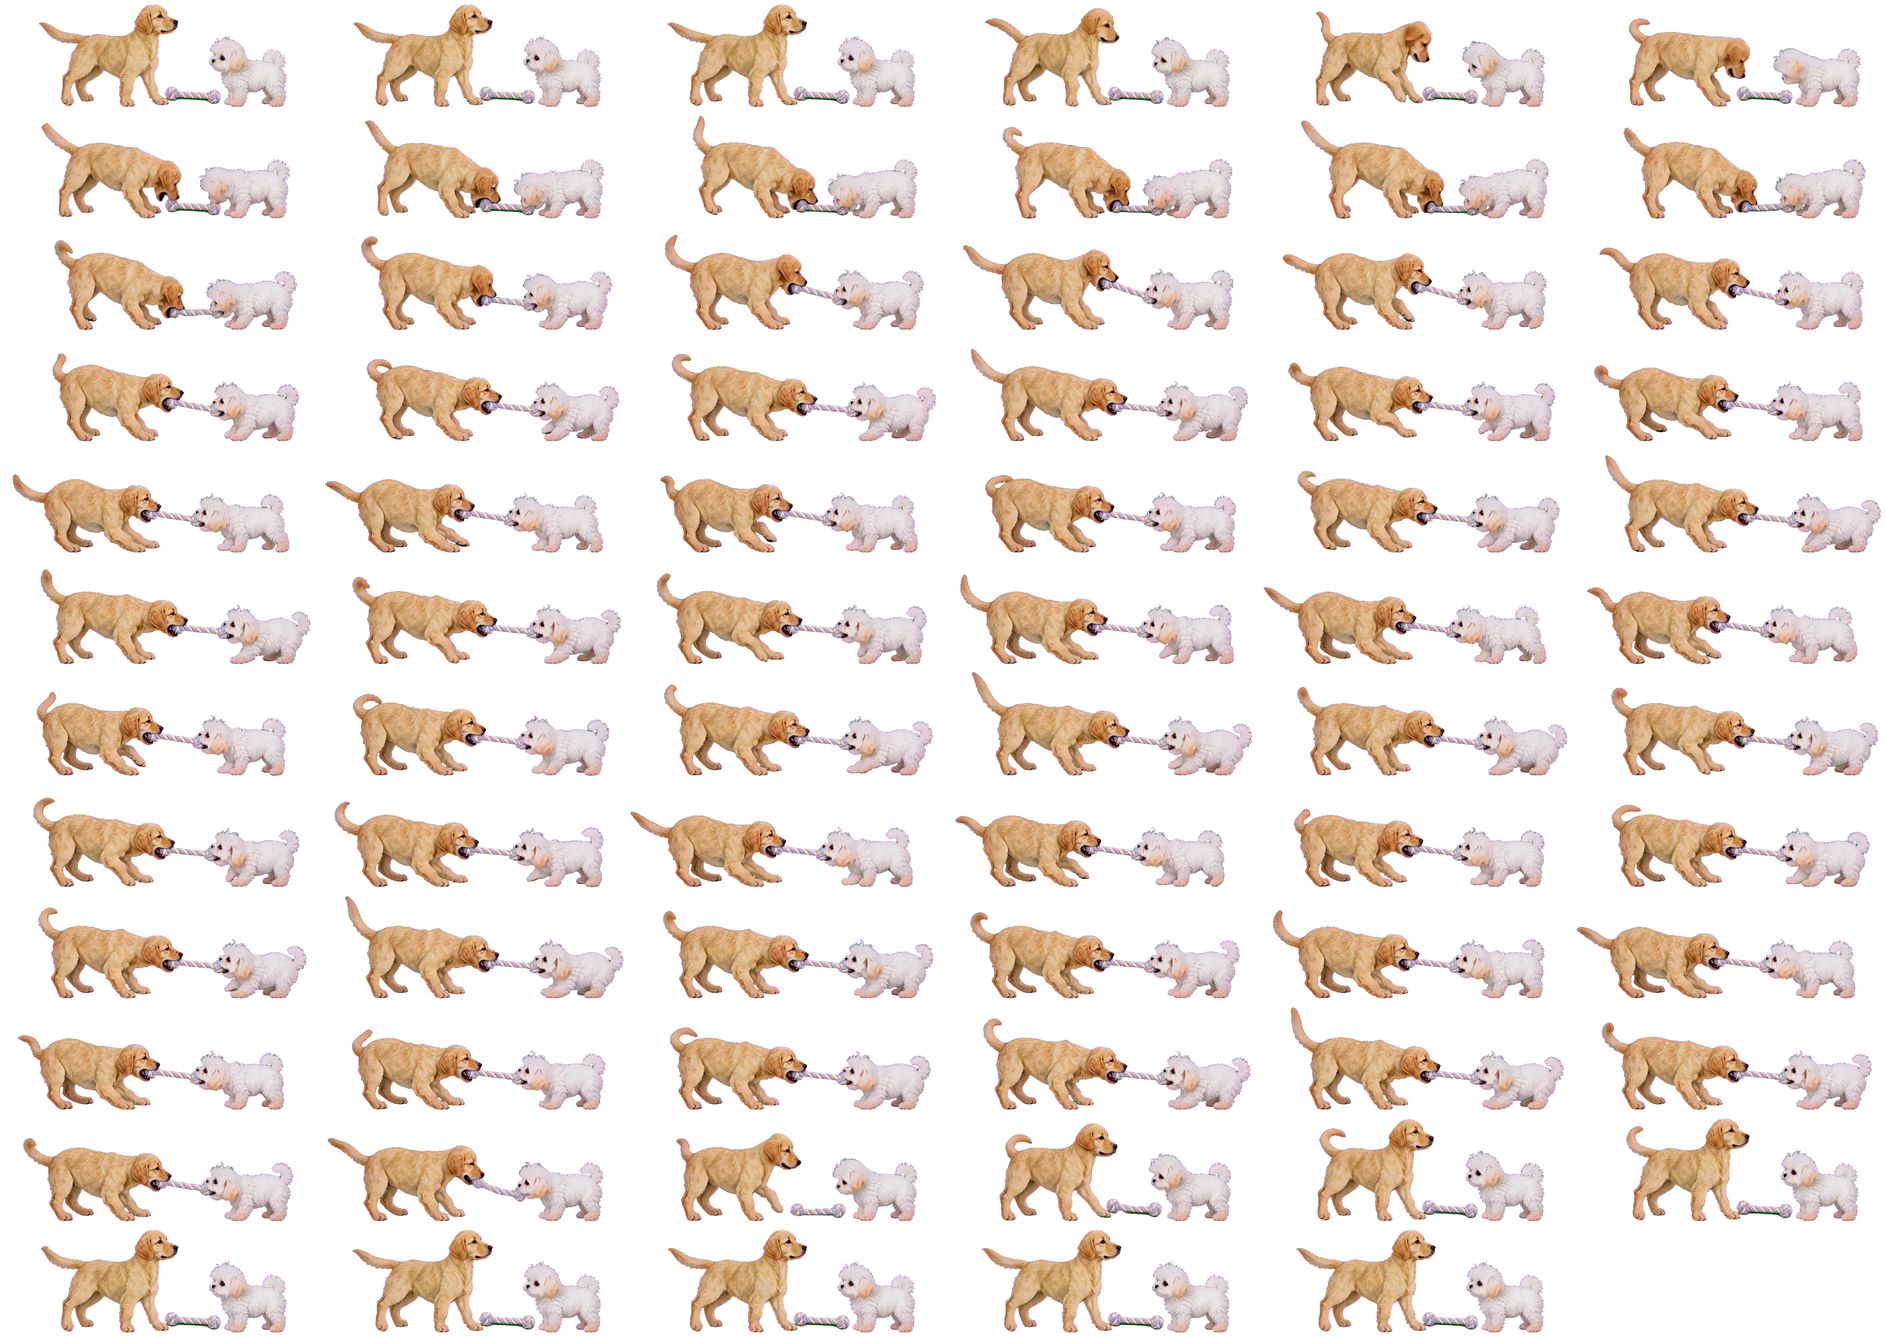
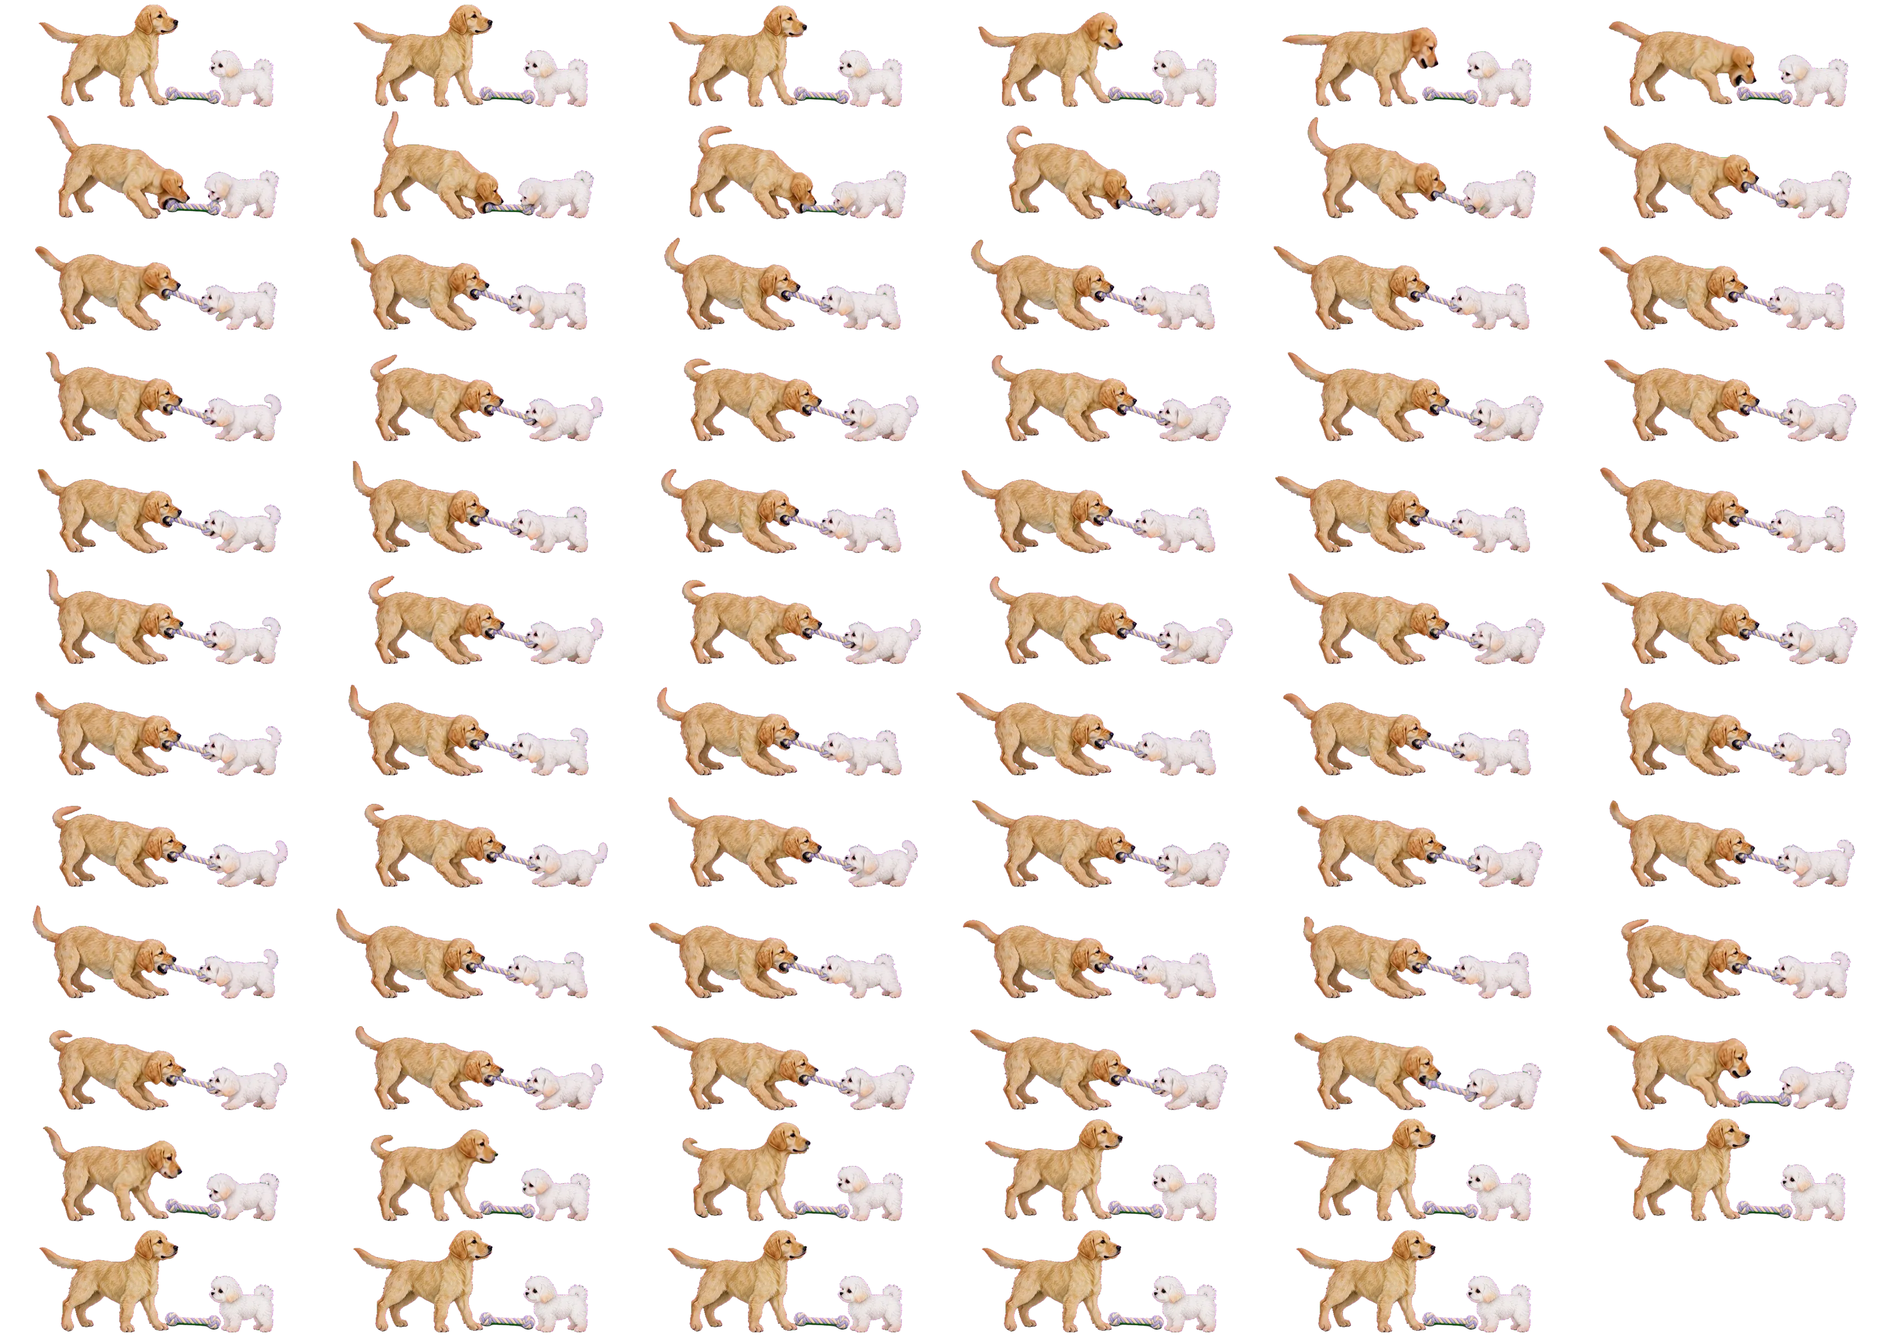
The Maltese is the owner's Holopix painting now, bare and in its petal outfit: each look walks, sits and gallops in its own painted clips, drawn at 0.8 of the old size to keep it about half the puppy; it wears its petal look while the puppy is dressed, walks at the puppy's pace with its painted stri

diff --git a/mobile/src/components/garden/critters/GardenCritters.tsx b/mobile/src/components/garden/critters/GardenCritters.tsx
@@ -29,6 +29,25 @@ type Frames = { columns: number; count: number; ground: number; loop: number; fp
     // A run in bigger cells than the walk's (a gallop stretches past them): their size, and where
     // their top left lies in the walk's cell, in walk-cell pixels.
     cell?: { w: number; h: number; x: number; y: number } }; trail?: number };
+// The Maltese (Xiaobai), from the owner's Holopix painting of it in its petal outfit (2026-11-05;
+// ~/dev/petalpal-motion/maltese/v2): that painting on green is the dressed look, the same painting
+// with every piece taken off the bare one. Each look: an oil-motion walk (a four-beat walk, one
+// stride), a walk-to-sit (20 frames) and a gallop (two strides, painted from a mid-stride key
+// frame), all cut with the walk's scale (crop 190,30,920,690 into 293 × 220 cells; the gallop is
+// longer, so it is cut wider, 40,0,1240,744 into 395 × 237 cells, and drawn offset onto them, its
+// landing paws on the walk's ground). `loop` is the ground the planted paws cover (measured by
+// video-frames.py) at MALTESE_SIZE. It wears its look when the puppy has an outfit on.
+export type MalteseLook = 'bare' | 'petal';
+const MALTESE_LOOKS: Record<MalteseLook, Frames & { source: number }> = {
+  bare: { source: require('@/assets/garden/critters/maltese-walk.webp'), columns: 8, count: 48, ground: 216, loop: 47.9,
+    rest: { source: require('@/assets/garden/critters/maltese-sit.webp'), count: 20, rise: 1 },
+    run: { source: require('@/assets/garden/critters/maltese-run.webp'), columns: 8, count: 60, loop: 66.3,
+      cell: { w: 395.4, h: 237.2, x: -47.83, y: -16.1 } } },
+  petal: { source: require('@/assets/garden/critters/maltese-petal-walk.webp'), columns: 8, count: 42, ground: 216, loop: 34.6,
+    rest: { source: require('@/assets/garden/critters/maltese-petal-sit.webp'), count: 20, rise: 1 },
+    run: { source: require('@/assets/garden/critters/maltese-petal-run.webp'), columns: 8, count: 59, loop: 64.4,
+      cell: { w: 395.4, h: 237.2, x: -47.83, y: -22.2 } } },
+};
 const ART: Record<CritterId, { source: number; frames?: Frames; w: number; h: number }> = {
   butterfly: { source: require('@/assets/garden/critters/butterfly.webp'), w: 448, h: 367 },
   // The bluebird flies in painted frames: a few wingbeats of a generated flying clip.
@@ -43,17 +62,8 @@ const ART: Record<CritterId, { source: number; frames?: Frames; w: number; h: nu
   // The puppy walks, gallops after the bluebird and sits down where it caught up in its outfit's
   // paintings (puppyLooks.ts; bare when it has nothing on), all sharing one crop, ground and scale.
   puppy: { source: PUPPY_LOOKS.bare.source, w: 418, h: 300, frames: PUPPY_LOOKS.bare },
-  // The Maltese, the puppy's tiny friend: an oil-motion walk (a four-beat walk, one stride cycle of
-  // 43 frames, 45 units of ground) and a walk-to-sit (20 frames), cut with one crop (190,30,920,690)
-  // so they lie on the same cells. Only frames where its legs are moving are kept: a still stretch
-  // in a loop made it slide.
-  maltese: { source: require('@/assets/garden/critters/maltese-walk.webp'), w: 293, h: 220,
-    frames: { columns: 8, count: 43, ground: 216, loop: 45, rest: { source: require('@/assets/garden/critters/maltese-sit.webp'), count: 20, rise: 1 },
-      // Its run: a gallop (painted from a mid-stride key frame; 59 frames, 77 units), chasing the
-      // puppy or dashing off in a game. Stretched out it is longer than the walk's cells, so it is cut
-      // wider (crop 100,10,1120,710 into 374 × 237 cells) and drawn offset onto them.
-      run: { source: require('@/assets/garden/critters/maltese-run.webp'), columns: 8, count: 59, loop: 77,
-        cell: { w: 374 * 0.9986, h: 237 * 0.9986, x: -30, y: -6.67 } } } },
+  // The Maltese, the puppy's tiny friend (bare, or in its own look: MALTESE_LOOKS).
+  maltese: { source: MALTESE_LOOKS.bare.source, w: 293, h: 220, frames: MALTESE_LOOKS.bare },
   // The Silktail Fox spirit, generated from the Garden spirits design sheet: it gallops (several
   // strides of a running clip) shedding petals, then slows, stops and sits down to rest (a clip
   // from that same running pose), and gets up again (back to its standing frame, 24).
@@ -358,15 +368,42 @@ export default memo(function GardenCritters({ clock, active, pets }: { clock: Sh
   </>;
 });
 
-export function Critter({ visit, clock, zoom = 1, look = 'bare' }: { visit: Visit; clock: SharedValue<number>; zoom?: number; look?: PuppyLook }) {
+export function Critter({ visit, clock, zoom = 1, look = 'bare', malteseLook }: { visit: Visit; clock: SharedValue<number>; zoom?: number; look?: PuppyLook; malteseLook?: MalteseLook }) {
   const art = ART[visit.id];
-  const image = useImage(visit.id === 'puppy' ? null : art.source);
+  const image = useImage(visit.id === 'puppy' || visit.id === 'maltese' ? null : art.source);
   if (visit.id === 'puppy') return <Group transform={zoom === 1 ? undefined : [{ scale: zoom }]}><Puppy visit={visit} clock={clock} look={look} /></Group>;
+  // The Maltese matches its friend: in its own look while the puppy has an outfit on.
+  if (visit.id === 'maltese') return <Group transform={zoom === 1 ? undefined : [{ scale: zoom }]}>
+    <Maltese visit={visit} clock={clock} look={malteseLook ?? (look === 'bare' ? 'bare' : 'petal')} /></Group>;
   if (!image) return null;
   return <Group transform={zoom === 1 ? undefined : [{ scale: zoom }]}>
     {art.frames && CRITTERS[visit.id].kind === 'walker' ? <FrameWalker visit={visit} clock={clock} sheet={image} frames={art.frames} w={art.w} h={art.h} />
       : <Flyer visit={visit} clock={clock} image={image} />}
   </Group>;
+}
+
+// The Maltese in its look. Both looks stay drawn (the one not worn invisible), so their sheets are
+// in and a change shows at once; never mid-run: a new look waits until its run has ended.
+function Maltese({ visit, clock, look }: { visit: Visit; clock: SharedValue<number>; look: MalteseLook }) {
+  const [shown, setShown] = useState(look);
+  const visitRef = useRef(visit); visitRef.current = visit;
+  useEffect(() => {
+    if (look === shown) return;
+    const running = () => { const v = visitRef.current; return !!(v.chase || v.running) && clock.value < v.start + v.duration; };
+    let timer = setTimeout(function wear() {
+      if (running()) { timer = setTimeout(wear, 300); return; }
+      setShown(look);
+    }, 0);
+    return () => clearTimeout(timer);
+  }, [look, shown, clock]);
+  const hidden = useDerivedValue(() => 0, []);
+  return <>{(['bare', 'petal'] as const).map(name => <MalteseLookWalker key={name} visit={visit} clock={clock} look={name} fade={name === shown ? undefined : hidden} />)}</>;
+}
+
+function MalteseLookWalker({ visit, clock, look, fade }: { visit: Visit; clock: SharedValue<number>; look: MalteseLook; fade?: DerivedValue<number> }) {
+  const sheet = useImage(MALTESE_LOOKS[look].source);
+  if (!sheet) return null;
+  return <FrameWalker visit={visit} clock={clock} sheet={sheet} frames={MALTESE_LOOKS[look]} w={ART.maltese.w} h={ART.maltese.h} fade={fade} />;
 }
 
 // The puppy in its outfit. A new outfit simply goes on: the old look fades off the new one in a

diff --git a/mobile/src/app/critters-test.tsx b/mobile/src/app/critters-test.tsx
@@ -4,7 +4,7 @@ import * as SplashScreen from 'expo-splash-screen';
 import { useEffect, useMemo, useState } from 'react';
 import { Pressable, ScrollView, StyleSheet, Text, View } from 'react-native';
 import { useFrameCallback, useSharedValue } from 'react-native-reanimated';
-import { Critter, PairSceneClip } from '@/components/garden/critters/GardenCritters';
+import { Critter, PairSceneClip, type MalteseLook } from '@/components/garden/critters/GardenCritters';
 import { PUPPY_LOOKS, type PuppyLook } from '@/components/garden/critters/puppyLooks';
 import { Otter } from '@/components/garden/spirits/MemoryOtter';
 import { OTTER_SPEED, swimEnd, type Swim } from '@/components/garden/spirits/otterSwims';
@@ -24,6 +24,9 @@ export default function CrittersTestScreen() {
   const [slow, setSlow] = useState(false);
   // The puppy's outfit: switching it mid-walk shows how one look turns into another.
   const [look, setLook] = useState<PuppyLook>('bare');
+  // The Maltese's look, and the Maltese walking beside the puppy at one zoom (their sizes side by side).
+  const [malteseLook, setMalteseLook] = useState<MalteseLook>('bare');
+  const [together, setTogether] = useState(false);
   // The puppy's moves: its walk, its gallop (a chase), or sitting a while first, then getting up.
   // (eat / pat: the puppy's painted actions, petal cape only.)
   const [move, setMove] = useState<'walk' | 'run' | 'sit' | 'eat' | 'pat'>('walk');
@@ -40,7 +43,7 @@ export default function CrittersTestScreen() {
   const [start, setStart] = useState(0);
   useEffect(() => { const timer = setTimeout(() => setStart(seconds.value), 100); return () => clearTimeout(timer); }, [id, round, seconds]);
   const visit = useMemo<Visit>(() => {
-    const ZOOM = zoomFor(id), margin = CRITTERS[id].size * 0.45;
+    const ZOOM = together && id === 'maltese' ? zoomFor('puppy') : zoomFor(id), margin = CRITTERS[id].size * 0.45;
     const y = CRITTERS[id].kind === 'walker' ? HEIGHT / ZOOM * 0.78 : HEIGHT / ZOOM * 0.5;
     const path = [{ x: margin, y }, { x: WIDTH / ZOOM - margin, y: y - 6 }, { x: margin + 8, y: y + 4 }];
     const spec = CRITTERS[id], puppyMove = id === 'puppy' || id === 'maltese' ? move : 'walk';
@@ -52,7 +55,15 @@ export default function CrittersTestScreen() {
     return { key: round, id, path, start, duration: lead + travelSeconds(length / speed, rhythm), speed, rhythm,
       lead, fadeIn: id !== 'silktail' && !sitting, walked: 0, chase: running && id === 'puppy', running: running && id === 'maltese', sits: sitting,
       ...(acting ? { held: true, action: { kind: puppyMove as 'eat' | 'pat', start: start + 2 } } : {}) };
-  }, [id, round, start, move]);
+  }, [id, round, start, move, together]);
+  // The puppy beside it: the same path a little further back, at its own pace.
+  const mate = useMemo<Visit | null>(() => {
+    if (!together || id !== 'maltese') return null;
+    const running = move === 'run', speed = running ? RUN_SPEED : CRITTERS.puppy.speed;
+    const path = visit.path.map(p => ({ x: p.x, y: p.y - 16 }));
+    return { ...visit, key: visit.key + 0.5, id: 'puppy', path, speed, rhythm: running ? { cycle: 0, moving: 1 } : RHYTHMS.puppy,
+      chase: running, running: false };
+  }, [together, id, move, visit]);
   const scene = useMemo<Scene | null>(() => (pair ? { key: round, kind: pair, start: start + 0.4, end: start + 0.4 + SCENE_SPECS[pair].seconds, x: 70, y: HEIGHT / 1.5 * 0.78, dir: 1 } : null), [pair, round, start]);
   useEffect(() => {
     if (!scene) return;
@@ -91,7 +102,10 @@ export default function CrittersTestScreen() {
       <Rect x={0} y={0} width={WIDTH} height={HEIGHT} color="#5C7F45" />
       <Rect x={0} y={HEIGHT * 0.62} width={WIDTH} height={HEIGHT * 0.3} color="#B9AA8C" />
       {scene ? <Group transform={[{ scale: 1.5 }]}><PairSceneClip key={scene.key} scene={scene} clock={seconds} /></Group>
-        : <Critter key={`${id}-${move}`} visit={visit} clock={seconds} zoom={zoomFor(id)} look={look} />}
+        : mate ? <>
+          <Critter key={`mate-${move}`} visit={mate} clock={seconds} zoom={zoomFor('puppy')} look={malteseLook === 'petal' ? 'cape2' : 'bare'} />
+          <Critter key={`${id}-${move}-t`} visit={visit} clock={seconds} zoom={zoomFor('puppy')} malteseLook={malteseLook} /></>
+        : <Critter key={`${id}-${move}`} visit={visit} clock={seconds} zoom={zoomFor(id)} look={look} malteseLook={malteseLook} />}
     </Canvas>}
     <Text testID="critter-debug" style={styles.label}>{debug}</Text>
     <View style={styles.row}>{PREVIEW_IDS.map(item => <Pressable key={item} onPress={() => { setOtter(false); setPair(null); setId(item); }}
@@ -101,6 +115,9 @@ export default function CrittersTestScreen() {
       style={[styles.button, pair === item && styles.selected]}><Text style={styles.label}>{item === 'hug' ? 'pair: hug 抱抱' : 'pair: tug 抢玩具'}</Text></Pressable>)}</View>
     {!otter && !pair && id === 'puppy' ? <View style={styles.row}>{(Object.keys(PUPPY_LOOKS) as PuppyLook[]).map(item => <Pressable key={item} onPress={() => setLook(item)}
       style={[styles.button, look === item && styles.selected]}><Text style={styles.label}>{item}</Text></Pressable>)}</View> : null}
+    {!otter && !pair && id === 'maltese' ? <View style={styles.row}>{(['bare', 'petal'] as const).map(item => <Pressable key={item} onPress={() => setMalteseLook(item)}
+      style={[styles.button, malteseLook === item && styles.selected]}><Text style={styles.label}>{item === 'petal' ? 'petal 花仙装' : 'bare'}</Text></Pressable>)}
+      <Pressable onPress={() => { setTogether(value => !value); setRound(value => value + 1); }} style={[styles.button, together && styles.selected]}><Text style={styles.label}>with puppy 和小金毛一起</Text></Pressable></View> : null}
     {!otter && !pair && (id === 'puppy' || id === 'maltese') ? <View style={styles.row}>{(id === 'puppy' ? ['walk', 'run', 'sit', 'eat', 'pat'] as const : ['walk', 'run', 'sit'] as const).map(item => <Pressable key={item}
       onPress={() => { setMove(item); setRound(value => value + 1); }}
       style={[styles.button, move === item && styles.selected]}><Text style={styles.label}>{item}</Text></Pressable>)}</View> : null}

diff --git a/mobile/src/components/garden/critters/critterVisits.ts b/mobile/src/components/garden/critters/critterVisits.ts
@@ -22,13 +22,17 @@ export type CritterSpec = {
   altitude: [number, number];
 };
 // The Maltese's drawn size and walking pace (world units), from its painted walk.
-// (Its sheet's cells are 293 px wide; 62 units makes it stand about 42 units tall, some six tenths of
-// the puppy. Its painted walk covers 45 units a stride cycle in 1.8 s: 27 units a second is its own pace.)
-export const MALTESE_SIZE = 62, MALTESE_SPEED = 27;
-// Its gallop: two strides of about 38.5 units each loop. A small dog's strides are short and quick:
+// (Its sheet's cells are 293 px wide. Its painting since 2026-11-05 has a bigger head than the
+// first one, so it is drawn at 0.8 of the first one's 62 units, keeping it about half the puppy's
+// size. Its painted walk covers 47.9 units a 48-frame stride, 34.6 a 42-frame one in its petal
+// look. It walks as fast as the puppy (the owner's choice, 2026-11-05): its frames follow the ground
+// it covers, so its stride stays the painted one and its little legs simply step quicker, about 1.7
+// times the video's own pace.)
+export const MALTESE_SIZE = 49.6, MALTESE_SPEED = 38;
+// Its gallop: two strides of about 33 units each loop. A small dog's strides are short and quick:
 // it takes two to each of the puppy's (the puppy's gallop: 178 units a stride at RUN_SPEED, 1.23 s),
-// so it runs a loop in 1.23 s, a little under half the puppy's speed.
-export const MALTESE_RUN_SPEED = 63;
+// so it runs a loop in about 1.23 s.
+export const MALTESE_RUN_SPEED = 53;
 export const CRITTERS: Readonly<Record<CritterId, CritterSpec>> = {
   butterfly: { id: 'butterfly', kind: 'flyer', size: 60, speed: 46, altitude: [36, 90] },
   bluebird: { id: 'bluebird', kind: 'flyer', size: 92, speed: 140, altitude: [120, 200] },
@@ -593,8 +597,8 @@ export function clearOf(candidates: readonly (Visit | null)[], other: Point): Vi
 // puppy (`apart` units from it, on its side) and the scene plays there, both held for it.
 export type SceneKind = 'tug' | 'hug';
 export const SCENE_SPECS: Readonly<Record<SceneKind, { seconds: number; apart: number; sits: boolean }>> = {
-  tug: { seconds: 71 / 12, apart: 106.6, sits: false },
-  hug: { seconds: 71 / 12, apart: 65.3, sits: true },
+  tug: { seconds: 71 / 12, apart: 102.5, sits: false },
+  hug: { seconds: 71 / 12, apart: 63.9, sits: true },
 };
 export type Scene = { key: number; kind: SceneKind; start: number; end: number; x: number; y: number; dir: 1 | -1 };
 export function planScene({ key, kind, maltese, puppy, now, mAt, pAt, approach }: {

diff --git a/docs/handoff/garden-pet-wardrobe.md b/docs/handoff/garden-pet-wardrobe.md
@@ -59,6 +59,24 @@ Not done yet (next work, in the owner's order):
    and the belly gap filled in every frame from Kiro's repaint (`belly_paste.py`). The puppy never
    changes outfit while running: it stops, sits, then changes, and no game or chase starts
    meanwhile. Dressed, it only plays chase with the Maltese (the tug and hug clips paint it bare).
+   *New Maltese painting and its outfit (2026-11-05, branch `feat/maltese-holopix`):* the owner
+   dressed the Maltese on Holopix (Outfit Transfer template, `creativeTemplateId=139`) after its
+   design sheet (flower clip, lilac capelet, bow and charms) and chose that painting for the dog
+   itself, so it replaces M0: on green it is the petal look (`dressed.png`, the capelet refitted
+   over the back by one gpt-image edit), and the same painting with every piece taken off is the bare
+   look (`bare.png`), both in `~/dev/petalpal-motion/maltese/v2/`. Each look has its own walk, walk-to-
+   sit and gallop (`MALTESE_LOOKS` in GardenCritters.tsx; `maltese-*.webp`, `maltese-petal-*.webp`);
+   tug and hug were regenerated with the new bare Maltese. Its head is bigger than M0's, so it is
+   drawn at 0.8 of the old size (`MALTESE_SIZE` 49.6, about 0.44 of the puppy), and the pair first
+   frames use that scale (the tug frame is itself at 0.79 of the puppy's video scale: k 0.342).
+   The bare sit clip's backdrop turned pink half way: it is keyed per frame (`sit-masks/`). The
+   videos paint a dark shadow between its legs and belly (dark on the lawn): in all six sheets, dark
+   patches of 25 px or more in the bottom 22% of each cell fade to transparent (`maltese/v2/belly_clear.py`;
+   originals in `maltese/v2/sheets-before-belly/`); the bottom band keeps the red bow out.
+   It walks at the puppy's pace (`MALTESE_SPEED` 38, the owner's choice): its frames follow the
+   ground covered, so the painted stride stays and its steps come quicker. It has
+   no wardrobe of its own (the server's PetId has no `maltese`): it wears its petal look while the
+   puppy has any outfit on, and like the puppy never changes look mid-run.
 5. **Per-pet catalogs.** The catalog is still 32 generic pieces shared by all pets. The puppy maps
    pieces to its art like this: `flower-sprig`, `petal-capelet` and `crystal-drop` are its set 2;
    every other piece shows its set 1 art. That is a stand-in until each pet has its own pieces.
